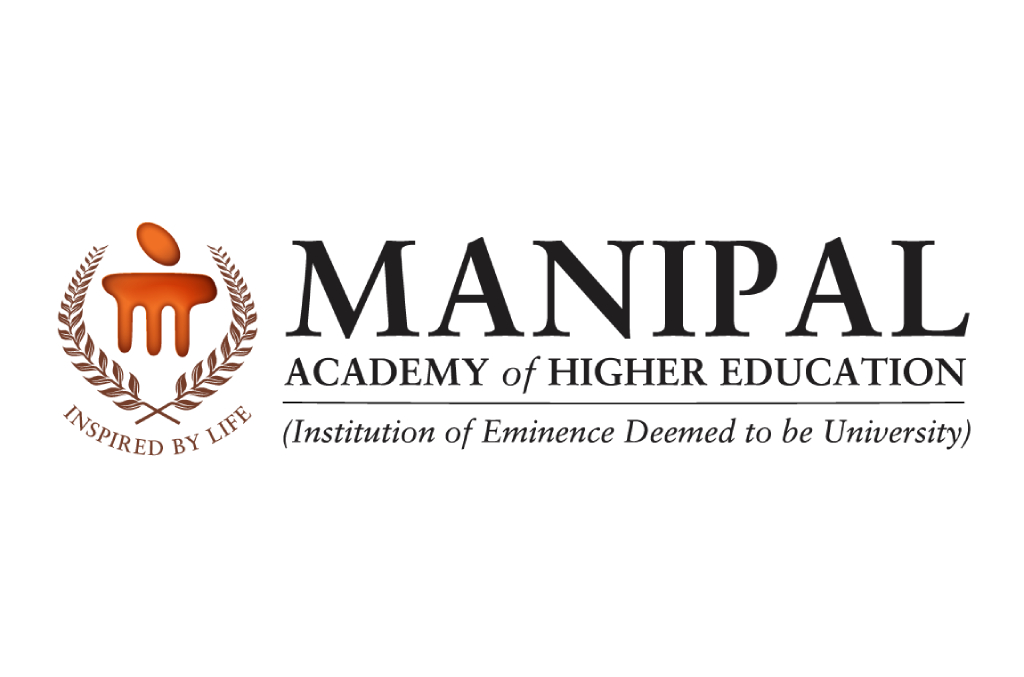
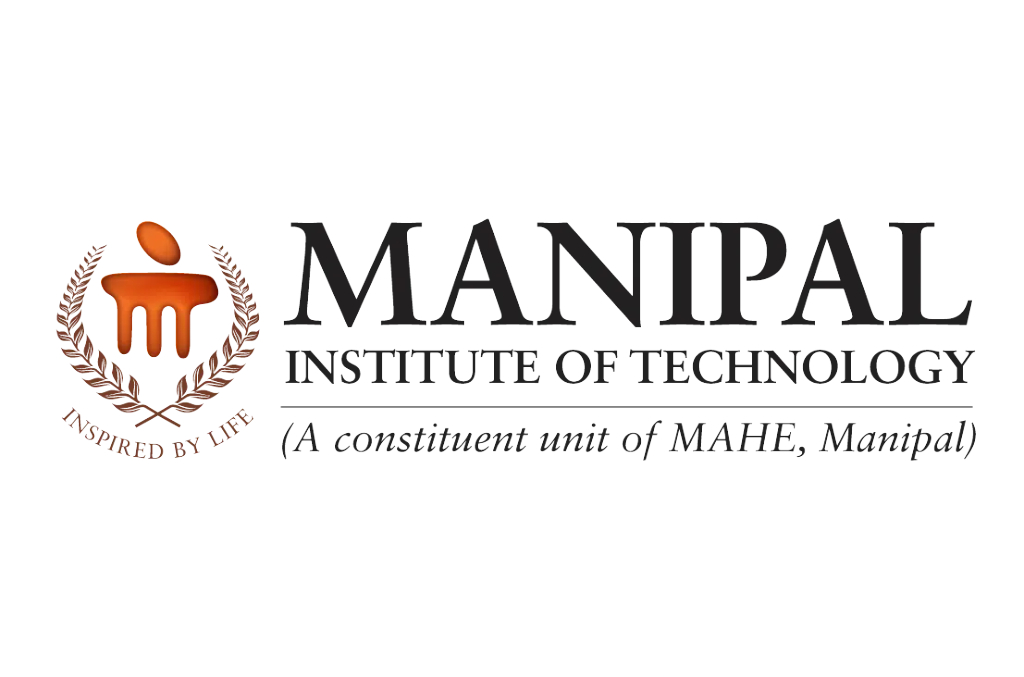
.

Changed region(s): [[0.0312, 0.3102, 0.9688, 0.6824]]

diff --git a/engineeringprojects.html b/engineeringprojects.html
@@ -103,9 +103,6 @@
 											</header>
 											<p>The research involved a comprehensive exploration of three-lobe bearings, focusing on hydrodynamic pressure, deformation, and stress distribution. The primary aim was to compare different combinations of eccentricity ratios and materials.</p>
 											<p>Employing a two-phase Computational Fluid Dynamics (CFD) approach and two-way Fluid Structure Interaction (FSI) with consideration for cavitation, the study utilized system coupling between static structural and fluent modules in Ansys Workbench. A database comprising of 24 distinct bearing combinations was developed. Pressure, deformation, and stress exhibit a direct correlation with eccentricity ratio increments. Further, steel displayed superior resilience compared to bronze and brass, demonstrating lower levels of deformation and stress.
-											<ul class="actions">
-												<li><a href="lobe_bearings.html" class="button">Learn more about the research</a></li>
-											</ul>
 										</div>
 									</div>
 								</section>

diff --git a/education.html b/education.html
@@ -85,7 +85,7 @@
 												<h3>Master of Engineering (MEng)</h3>
 												<h4>Manufacturing Engineering</h4>
 												<h4>McMaster University, Hamilton, Ontario</h4>
-												<h4>Graduation in December 2023</h4>
+												<h4>Graduated in  2023</h4>
 											</header>
 											<ul class="actions">
 												<li><a href="https://www.mcmaster.ca/" class="button" target="_blank">Visit McMaster.ca</a></li>
@@ -103,7 +103,7 @@
 												<h3>Bachelor of Technology (BTech)</h3>
 												<h4>Mechanical Engineering,<br>
 													Minor in Business Management</h4>
-												<h4>Manipal Academy of Higher Education, India</h4>
+												<h4>Manipal Institute of Technology, India</h4>
 												<h4>Graduated in 2021</h4>
 											</header>
 											<ul class="actions">

diff --git a/sae_uav.html b/sae_uav.html
@@ -50,7 +50,7 @@
 								<h1>SAE Micro-Class Unmanned Aerial Vehicle</h1>
 							</header>
 							<div class="content">
-								<p>One of the SAE AeroDesign competition's top-performing UAV
+								<p>One of the SAE AeroDesign competition's top-performing UAVs
 								<ul class="actions">
 									<li><a href="#one" class="button next scrolly">Get Started</a></li>
 								</ul>
